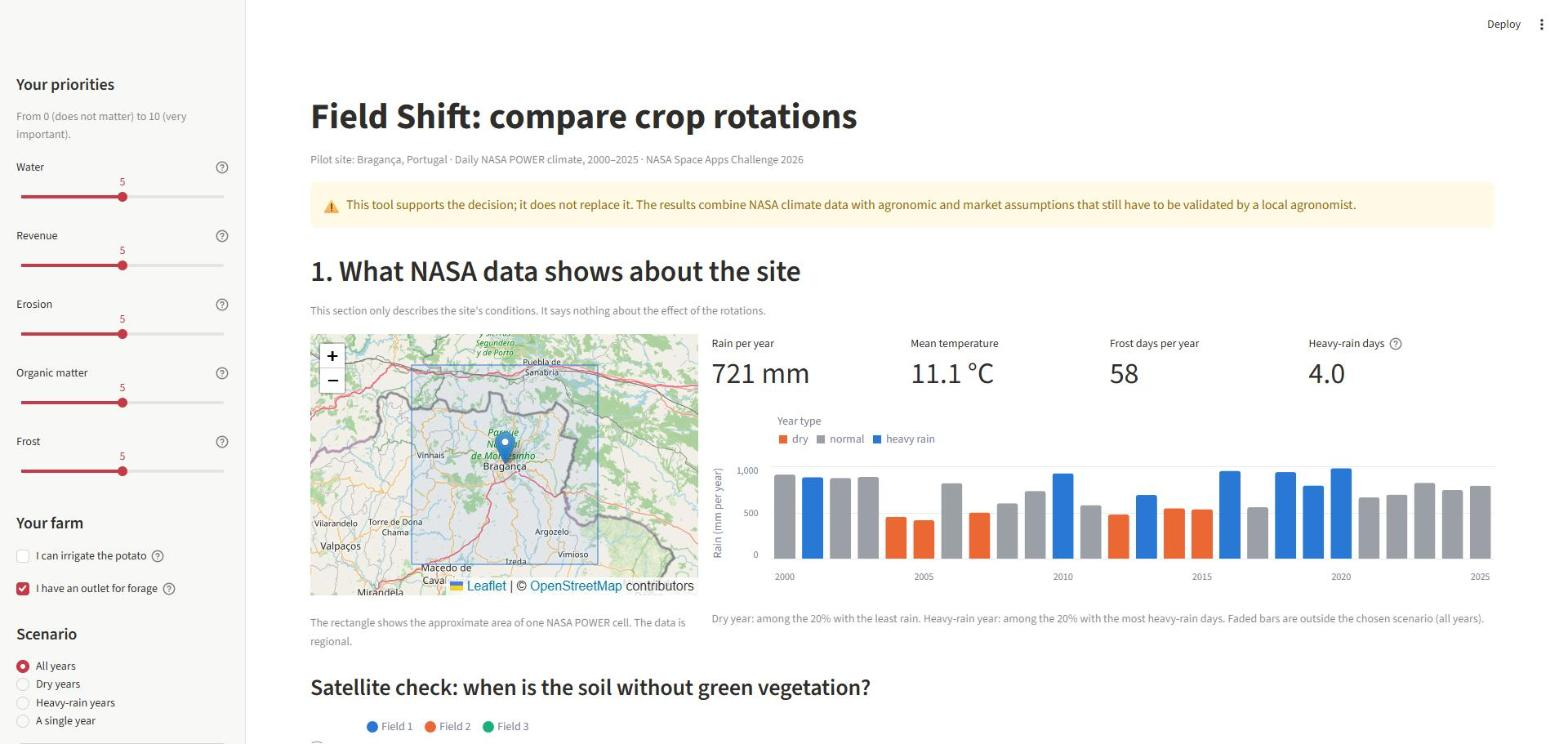
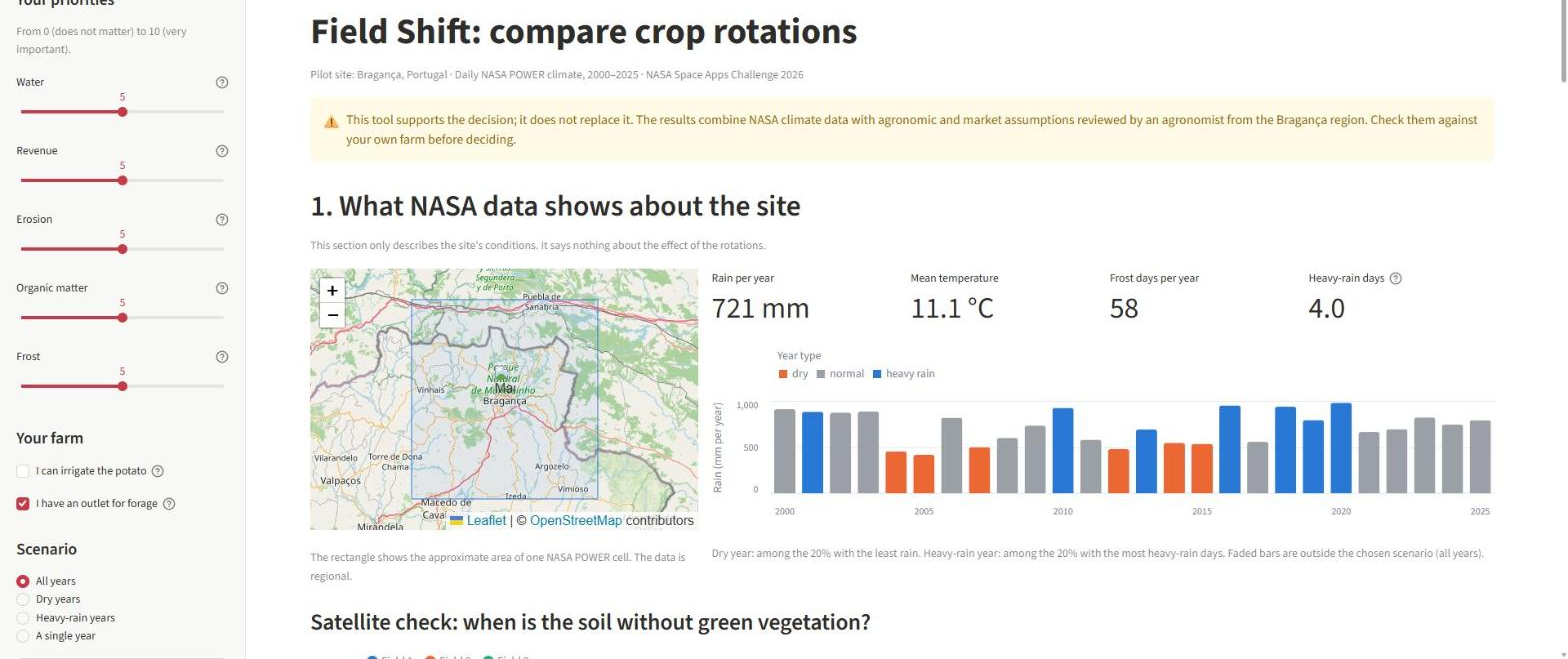
Update NDVI note and app screenshot

diff --git a/docs/ndvi_sentinel2.md b/docs/ndvi_sentinel2.md
@@ -50,10 +50,12 @@ the crop calendars in `fieldshift/config.py`.
    pasture (0.7 to 0.9). Only in 3 of 27 field-years did December–March NDVI fall
    below 0.25 (field 2 in 2017 and 2020, field 3 in 2017; 2017 was a severe drought
    year). If any of these fields was fallow in one of those years, the fallow had
-   some spontaneous vegetation in winter. This casts doubt on the assumption that
-   **fallow leaves the soil bare all year**, which is the main reason the current
-   rotation has 250 bare-soil days a year. It does not disprove it: we do not know
-   whether any of these fields was actually fallow.
+   some spontaneous vegetation in winter. The assumption that **fallow leaves the
+   soil bare all year** (the main reason the current rotation has 250 bare-soil days
+   a year) was confirmed by an agronomist from the Bragança region; this result does
+   not contradict it, because we do not know whether any of these fields was
+   actually fallow. It does suggest checking how much spontaneous cover a fallow
+   field gets in wet winters.
 4. **The year matters.** Field 2 had 11 months below 0.25 in 2017 and only 4 in
    2024. A single year says little; several years are needed.
 
